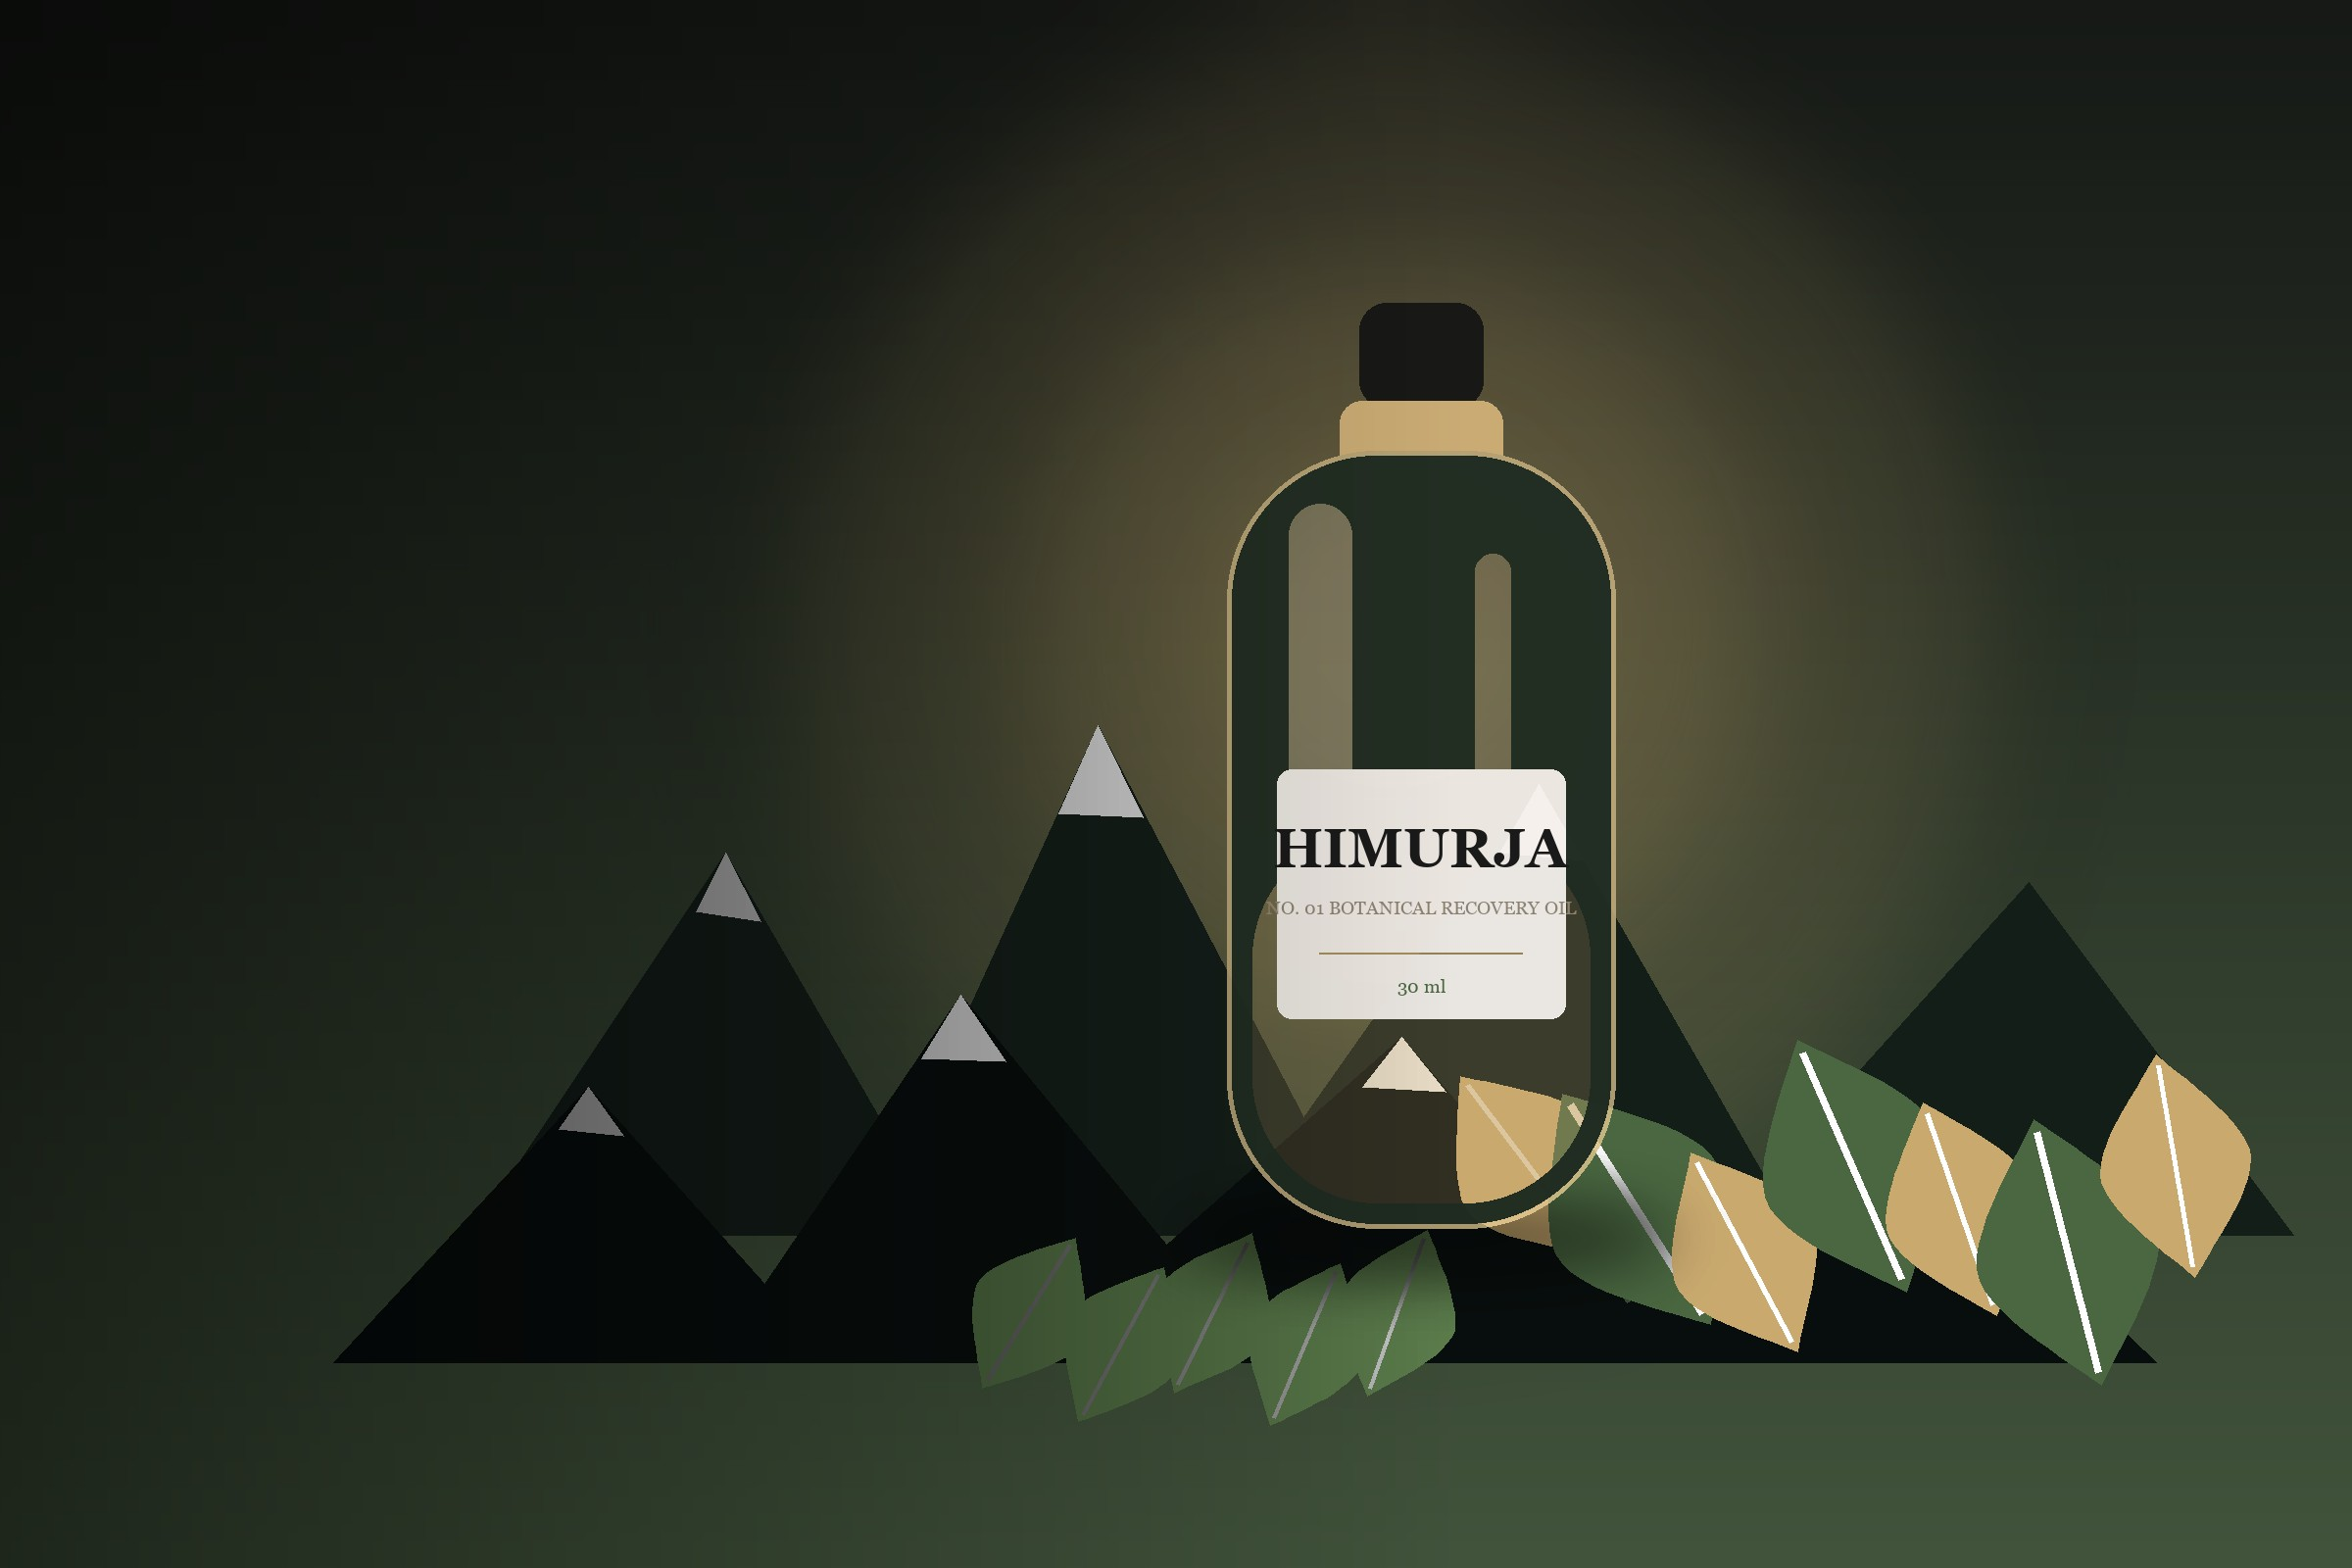
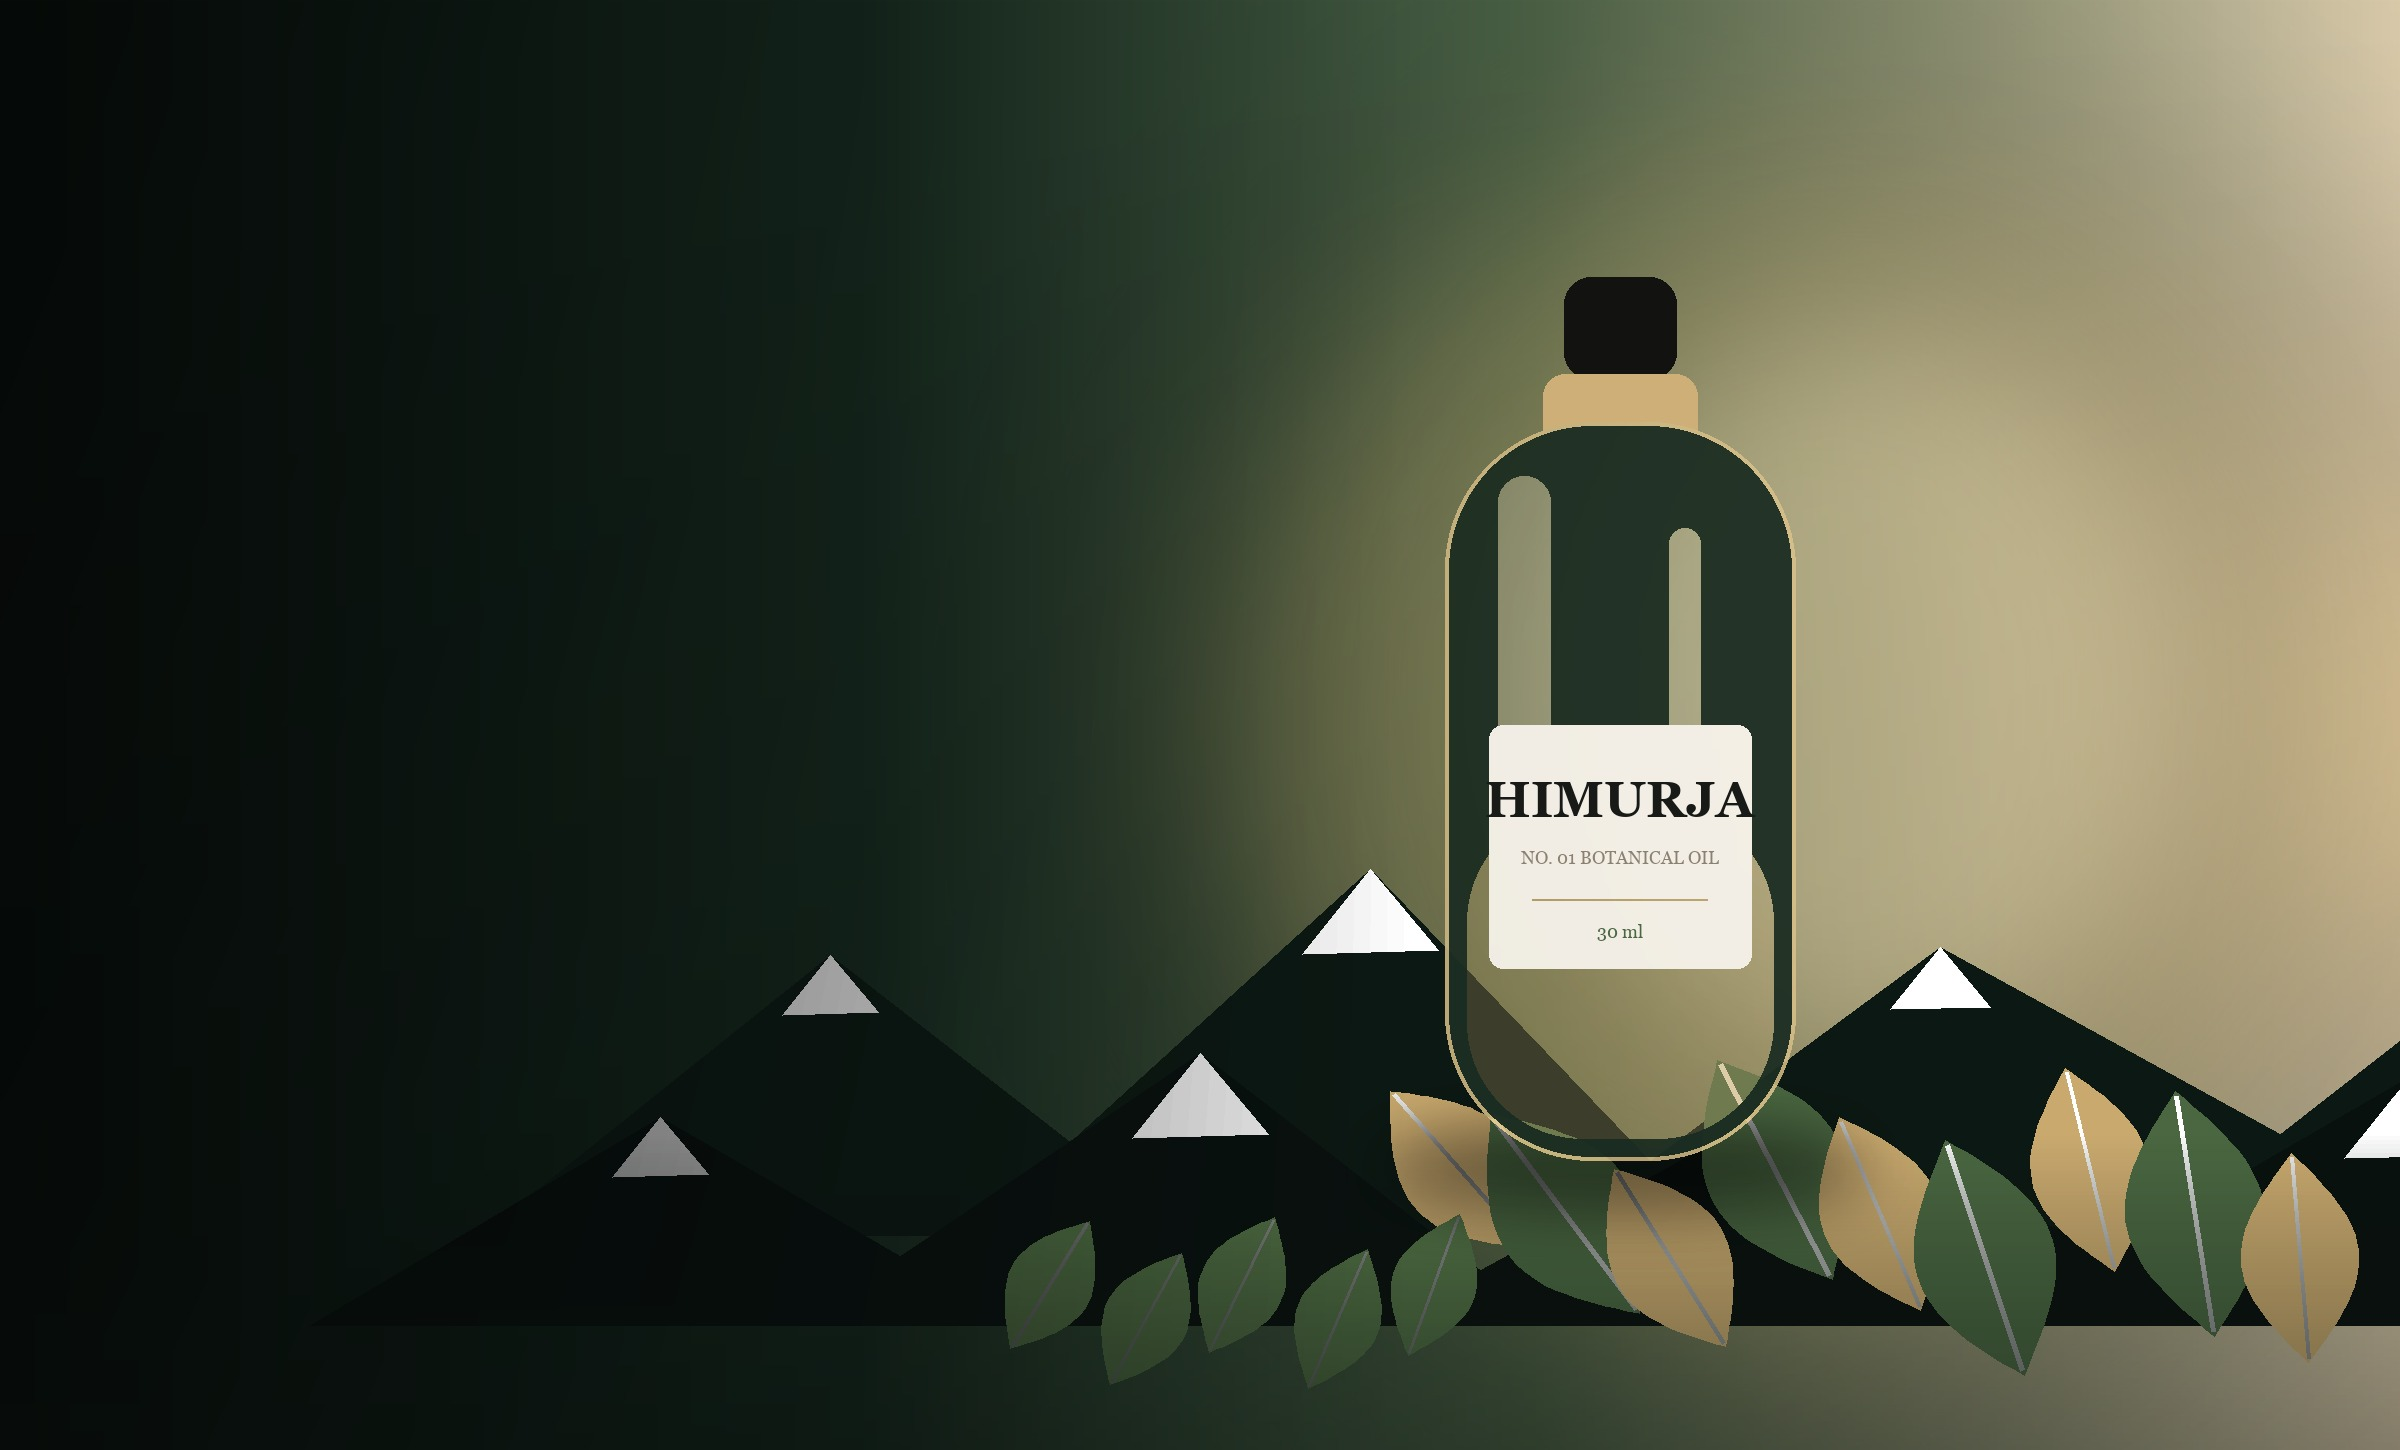
Refine first viewport theme

diff --git a/src/components/hero-section.tsx b/src/components/hero-section.tsx
@@ -5,79 +5,55 @@ import { motion } from "framer-motion";
 import { ArrowDown } from "lucide-react";
 import Link from "@/components/static-link";
 import Image from "next/image";
+import { publicPath } from "@/lib/base-path";
 
 export default function HeroSection() {
   return (
-    <section className="relative min-h-[88svh] flex items-center overflow-hidden pt-24 pb-16">
+    <section className="relative min-h-[88svh] flex items-center overflow-hidden pt-24 pb-14">
       <Image
-        src="/hero-botanical-recovery.jpg"
+        src={publicPath("/hero-botanical-recovery.jpg")}
         alt="HIMURJA botanical recovery oil bottle against Himalayan botanicals"
         fill
         priority
         sizes="100vw"
-        className="object-cover"
+        className="object-cover object-[34%_center] md:object-center"
       />
-      <div className="absolute inset-0 bg-charcoal/35" />
+      <div className="absolute inset-0 bg-gradient-to-r from-charcoal/70 via-charcoal/30 to-transparent" />
+      <div className="absolute inset-x-0 top-0 h-32 bg-gradient-to-b from-charcoal/55 to-transparent" />
 
       {/* Content */}
       <div className="relative z-10 w-full max-w-7xl mx-auto px-6 md:px-12 lg:px-16">
-        <motion.div
-          initial={{ opacity: 0, y: 40 }}
-          animate={{ opacity: 1, y: 0 }}
-          transition={{ duration: 0.8, ease: "easeOut" }}
-          className="max-w-2xl text-left"
-        >
-          <motion.p
-            initial={{ opacity: 0, y: 20 }}
-            animate={{ opacity: 1, y: 0 }}
-            transition={{ duration: 0.6, delay: 0.2 }}
-            className="text-gold text-sm md:text-base tracking-[0.3em] uppercase mb-6 font-medium"
-          >
-            Premium Transparent Botanical Recovery Care
-          </motion.p>
+        <div className="max-w-[42rem] text-left">
+          <p className="text-gold text-xs md:text-sm tracking-[0.28em] uppercase mb-5 font-semibold">
+            Transparent Botanical Recovery Care
+          </p>
 
-          <motion.h1
-            initial={{ opacity: 0, y: 20 }}
-            animate={{ opacity: 1, y: 0 }}
-            transition={{ duration: 0.6, delay: 0.4 }}
-            className="text-4xl md:text-6xl lg:text-7xl font-serif text-white leading-tight mb-6"
-          >
+          <h1 className="text-4xl sm:text-5xl lg:text-6xl xl:text-[4.7rem] font-serif text-white leading-[1.04] mb-6">
             HIMURJA No. 01
             <br />
-            <span className="text-gold">Botanical Recovery Oil</span>
-          </motion.h1>
+            <span className="text-gold">Overnight Botanical Oil</span>
+          </h1>
 
-          <motion.p
-            initial={{ opacity: 0, y: 20 }}
-            animate={{ opacity: 1, y: 0 }}
-            transition={{ duration: 0.6, delay: 0.6 }}
-            className="text-white/75 text-lg md:text-xl max-w-xl mb-12 leading-relaxed"
-          >
-            One product. Four botanical oils. Zero complexity.
-            <br />
-            Prepare tonight. Face tomorrow.
-          </motion.p>
+          <p className="text-white/80 text-base md:text-xl max-w-[34rem] mb-10 leading-relaxed">
+            Four cold-pressed botanical oils for a simpler nighttime ritual.
+            Skin support without the noise.
+          </p>
 
-          <motion.div
-            initial={{ opacity: 0, y: 20 }}
-            animate={{ opacity: 1, y: 0 }}
-            transition={{ duration: 0.6, delay: 0.8 }}
-            className="flex flex-col sm:flex-row items-stretch sm:items-center gap-4 sm:gap-6"
-          >
+          <div className="flex flex-col sm:flex-row items-stretch sm:items-center gap-4 sm:gap-6">
             <Link
               href="/product"
-              className="inline-flex items-center justify-center px-8 py-4 bg-gold text-charcoal font-medium tracking-wide hover:bg-white transition-all duration-300 text-base md:text-lg"
+              className="inline-flex items-center justify-center px-7 py-4 bg-gold text-charcoal font-semibold tracking-wide hover:bg-white transition-all duration-300 text-base"
             >
-              Discover HIMURJA No. 01
+              Shop HIMURJA No. 01
             </Link>
             <Link
               href="/ingredients"
-              className="inline-flex items-center justify-center px-8 py-4 border border-white/30 text-white font-medium tracking-wide hover:bg-white/10 transition-all duration-300 text-base md:text-lg"
+              className="inline-flex items-center justify-center px-7 py-4 border border-white/35 text-white font-semibold tracking-wide hover:bg-white/10 transition-all duration-300 text-base"
             >
-              See Ingredients
+              View Ingredients
             </Link>
-          </motion.div>
-        </motion.div>
+          </div>
+        </div>
 
         {/* Scroll Indicator */}
         <motion.div

diff --git a/src/lib/base-path.ts b/src/lib/base-path.ts
@@ -1,0 +1,45 @@
+const basePath = process.env.NEXT_PUBLIC_BASE_PATH ?? "";
+
+function isLocalAbsolutePath(value: string) {
+  return value.startsWith("/") && !value.startsWith("//");
+}
+
+function splitSuffix(value: string) {
+  const suffixIndex = value.search(/[?#]/);
+
+  if (suffixIndex === -1) {
+    return [value, ""] as const;
+  }
+
+  return [value.slice(0, suffixIndex), value.slice(suffixIndex)] as const;
+}
+
+function addBasePath(pathname: string, suffix = "") {
+  if (!basePath || pathname === basePath || pathname.startsWith(`${basePath}/`)) {
+    return `${pathname}${suffix}`;
+  }
+
+  return `${basePath}${pathname}${suffix}`;
+}
+
+export function routePath(href: string) {
+  if (!isLocalAbsolutePath(href)) {
+    return href;
+  }
+
+  const [pathname, suffix] = splitSuffix(href);
+  const normalizedPath =
+    pathname === "/" ? "/" : pathname.endsWith("/") ? pathname : `${pathname}/`;
+
+  return addBasePath(normalizedPath, suffix);
+}
+
+export function publicPath(src: string) {
+  if (!isLocalAbsolutePath(src)) {
+    return src;
+  }
+
+  const [pathname, suffix] = splitSuffix(src);
+
+  return addBasePath(pathname, suffix);
+}

diff --git a/src/components/static-link.tsx b/src/components/static-link.tsx
@@ -1,13 +1,18 @@
 import type { AnchorHTMLAttributes, ReactNode } from "react";
+import { routePath } from "@/lib/base-path";
 
 type StaticLinkProps = Omit<AnchorHTMLAttributes<HTMLAnchorElement>, "href"> & {
-    href: string;
-    children: ReactNode;
-    prefetch?: boolean | null;
-  };
+  href: string;
+  children: ReactNode;
+  prefetch?: boolean | null;
+};
 
 export default function StaticLink({ children, prefetch, ...props }: StaticLinkProps) {
   void prefetch;
 
-  return <a {...props}>{children}</a>;
+  return (
+    <a {...props} href={routePath(props.href)}>
+      {children}
+    </a>
+  );
 }

diff --git a/next.config.ts b/next.config.ts
@@ -3,12 +3,16 @@ import path from "node:path";
 
 const repoName = process.env.GITHUB_REPOSITORY?.split("/")[1];
 const isGithubPages = process.env.GITHUB_ACTIONS === "true" && Boolean(repoName);
+const basePath = isGithubPages ? `/${repoName}` : "";
 
 const nextConfig: NextConfig = {
   output: "export",
   trailingSlash: true,
-  basePath: isGithubPages ? `/${repoName}` : undefined,
-  assetPrefix: isGithubPages ? `/${repoName}/` : undefined,
+  basePath: basePath || undefined,
+  assetPrefix: basePath ? `${basePath}/` : undefined,
+  env: {
+    NEXT_PUBLIC_BASE_PATH: basePath,
+  },
   images: {
     unoptimized: true,
   },

diff --git a/src/app/product/page.tsx b/src/app/product/page.tsx
@@ -7,6 +7,7 @@ import {
   ShoppingBag, MapPin, FlaskConical, Truck, RotateCcw
 } from "lucide-react";
 import { PRODUCT, FAQS, TESTIMONIALS } from "@/lib/data";
+import { publicPath } from "@/lib/base-path";
 import { formatPrice, cn } from "@/lib/utils";
 import Link from "@/components/static-link";
 import Image from "next/image";
@@ -31,7 +32,7 @@ export default function ProductPage() {
             >
               <div className="aspect-[3/4] bg-warm-white relative overflow-hidden">
                 <Image
-                  src="/product-bottle-mockup.jpg"
+                  src={publicPath("/product-bottle-mockup.jpg")}
                   alt="HIMURJA No. 01 botanical recovery oil bottle"
                   fill
                   priority

diff --git a/src/components/founder-story.tsx b/src/components/founder-story.tsx
@@ -3,6 +3,7 @@
 import React from "react";
 import Image from "next/image";
 import Link from "@/components/static-link";
+import { publicPath } from "@/lib/base-path";
 import { motion } from "framer-motion";
 import { Quote } from "lucide-react";
 import SectionWrapper from "@/components/section-wrapper";
@@ -79,7 +80,7 @@ export default function FounderStory() {
         >
           <div className="aspect-[4/5] bg-warm-white relative overflow-hidden">
             <Image
-              src="/himalayan-botanical-story.jpg"
+              src={publicPath("/himalayan-botanical-story.jpg")}
               alt="Himalayan mountains and botanicals representing HIMURJA inspiration"
               fill
               sizes="(min-width: 1024px) 45vw, 100vw"